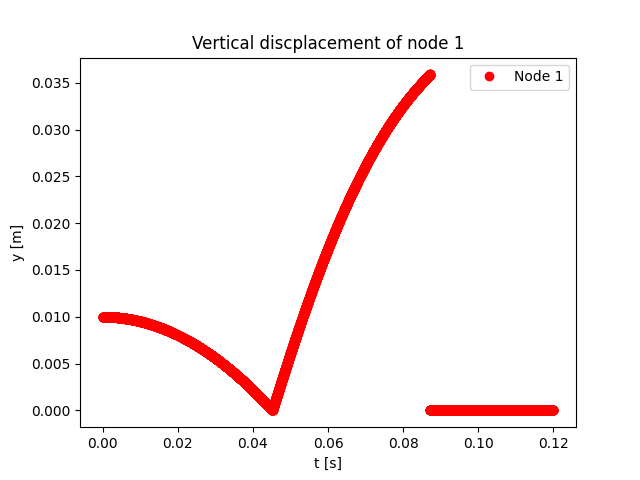
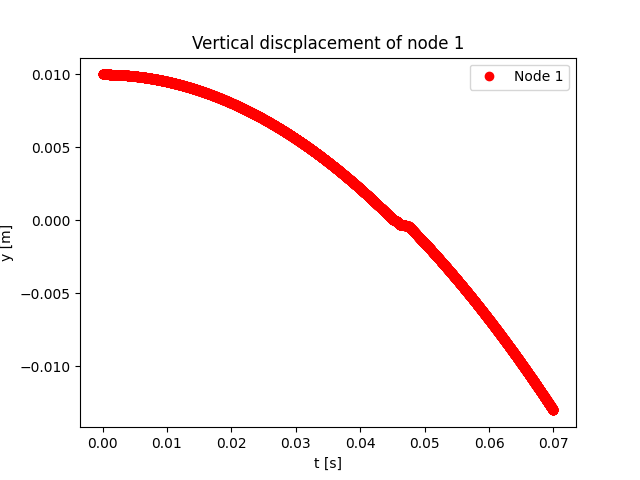
updates for BC application

diff --git a/ProjectCodes/FinalImplementation/BC_Application/BC_Bounce.py b/ProjectCodes/FinalImplementation/BC_Application/BC_Bounce.py
@@ -1,5 +1,6 @@
 import numpy as np
 import matplotlib.pyplot as plt
+import matplotlib.patches as patches
 from IPython.display import clear_output # Only for IPython
 
 # Helper Functions for MMM
@@ -30,6 +31,9 @@ def simloop(q_guess, q_old, u_old, dt, mass, EI, EA, deltaL, force, tol, mat, nv
     end_flag = 0
     close_d = 1e-5                # 1e-5
     close_off = 5e-6              # 5e-6
+
+    # Coordinates for reference reactangle in contact
+    xrec, yrec = [0.02, 0.02, 0.1], [-0.04, 0, 0]
     
     r_force = np.zeros(3*nv)
     s_mat = np.eye(3*nv)
@@ -44,7 +48,7 @@ def simloop(q_guess, q_old, u_old, dt, mass, EI, EA, deltaL, force, tol, mat, nv
 
       #s_mat = np.eye(3*nv)
       #z_vec = np.zeros(3*nv)
-      r_force, q, flag = MMMadj.MMM_cal(q0, q0, u, dt_def, mass, EI, EA, deltaL, force, tol, s_mat, z_vec, mat)
+      r_force, q, flag = MMMadj.MMM_cal(q0, q0, u, dt_def, mass, EI, EA, deltaL, force, tol, s_mat, z_vec, mat, free_ix)
       print("Node position: " + str(q))
       print("Reaction force: " + str(r_force))
       con_ind, free_ind, q_con, mat, flag_c, close_flag = MMMadj.test_col(q, r_force, close_d, 0)
@@ -60,7 +64,7 @@ def simloop(q_guess, q_old, u_old, dt, mass, EI, EA, deltaL, force, tol, mat, nv
           print("------------------------------------------------------ u = %f\n" % (u[1]))
           s_mat, z_vec = MMMadj.MMM_Szcalc(mat, con_ind, free_ind, q_con, q0, u, dt_c, mass, force)
 
-          r_force, q, flag = MMMadj.MMM_cal(q0, q0, u, dt_c, mass, EI, EA, deltaL, force, tol, s_mat, z_vec, mat)
+          r_force, q, flag = MMMadj.MMM_cal(q0, q0, u, dt_c, mass, EI, EA, deltaL, force, tol, s_mat, z_vec, mat, free_ix)
 
           u = (q - q0) / dt_c                     # update velocity
           q0 = q.copy()                         # update old position
@@ -72,7 +76,9 @@ def simloop(q_guess, q_old, u_old, dt, mass, EI, EA, deltaL, force, tol, mat, nv
           if flag_c == 1:
             s_mat, z_vec = MMMadj.MMM_Szcalc(mat, con_ind, free_ind, q_con, q0, u, dt_c, mass, force)
             print("Z vector: " + str(z_vec))
-            r_force, q, flag = MMMadj.MMM_cal(q0, q0, u, dt_def, mass, EI, EA, deltaL, force, tol, s_mat, z_vec, mat)
+            r_force, q, flag = MMMadj.MMM_cal(q0, q0, u, dt_def, mass, EI, EA, deltaL, force, tol, s_mat, z_vec, mat, free_ix)
+            
+            # End simulation if excessive low amplitude oscillations
             if timeStep - t_lastc < 300:
                 end_flag = 1
             t_lastc = timeStep
@@ -99,31 +105,34 @@ def simloop(q_guess, q_old, u_old, dt, mass, EI, EA, deltaL, force, tol, mat, nv
       all_u[timeStep] = u[1]                # Save the positions
 
       #Break if excessive low oscillations
-      if end_flag == 1:
-        for ii in range(int(len(q_old)/3)):
-          all_rfx[timeStep:-1][ii] = 0
-          all_rfy[timeStep:-1][ii] = 0
+      # if end_flag == 1:
+      #   print("terminated for oscillations")
+      #   for ii in range(int(len(q_old)/3)):
+      #     all_rfx[timeStep:-1][ii] = 0
+      #     all_rfy[timeStep:-1][ii] = 0
 
-        all_zvec[timeStep:-1] = 0
-        all_pos[timeStep:-1] = 0
-        all_u[timeStep:-1] = 0                # Save the positions
-        break
+      #   all_zvec[timeStep:-1] = 0
+      #   all_pos[timeStep:-1] = 0
+      #   all_u[timeStep:-1] = 0                # Save the positions
+      #   break
 
       # Plot the positions
       if timeStep%500 == 0:
         x1 = q[0::3]  # Selects every second element starting from index 0
-        print(x1)
+        #print(x1)
         x2 = q[1::3]  # Selects every second element starting from index 1
-        print(x2)
-        h1 = plt.figure(1)
+        #print(x2)
         plt.clf()  # Clear the current figure
         plt.plot(x1, x2, 'ko-')  # 'ko-' indicates black color with circle markers and solid lines
+        plt.plot(xrec, yrec)
         plt.title('time: ' + str(ctime))  # Format the title with the current time
         plt.xlim([-0.1, 1.1])
         plt.axis('equal')  # Set equal scaling
         plt.xlabel('x [m]')
         plt.ylabel('y [m]')
-        plt.show()
+        plot1_name = 'GripperGeom' + str(round(ctime, 3)) + '.png' 
+        plt.savefig('FinalImplementation/BC_Application/BCApplicationPlots/BC_GeomPlots/' + str(plot1_name))
+        # plt.show()
 
       ctime += dt # Update the current time
     
@@ -213,7 +222,7 @@ if __name__ == '__main__':
 
     #-----------------------------------------------------------
     # Inputs for using more than one node
-    nv = 3
+    nv = 26
     ne = nv - 1
     deltaL = RodLength / (nv - 1)            # Discrete length
     ndof = 3 * nv
@@ -222,6 +231,7 @@ if __name__ == '__main__':
     fixed_index = np.array([0, 1, 2])
     # Get the difference of two sets using np.setdiff1d
     free_ix = np.setdiff1d(all_DOFs, fixed_index)
+    free_ix = fixed_index
 
     nodes = np.zeros((nv, 2))
     for c in range(nv):
@@ -242,7 +252,7 @@ if __name__ == '__main__':
     maximum_iter = 100
     #totalTime = 0.453
     #totalTime = 0.5
-    totalTime = 0.12
+    totalTime = 0.07
     Nsteps = round(totalTime / dt)
     tol_dq = 1e-6 # Small length value
 

diff --git a/ProjectCodes/FinalImplementation/BC_Application/MMM_BC.py b/ProjectCodes/FinalImplementation/BC_Application/MMM_BC.py
@@ -125,8 +125,9 @@ def test_col(q_test, r_force, close_d, close_off):
             proj_vec = ( np.dot(np.array([0,1,0]), unit_r) ) * np.array([0,1,0])
 
         #print(proj_vec[1])
-        if q_test[3*ii + 1] < 0:
-            #q_con[3*ii + 1] = 0.1*(1-ii)
+        #print(q_test[3*ii])
+        if q_test[3*ii + 1] < 0 and q_test[3*ii] > 0.012:
+            
             q_con[3*ii + 1] = 0
             mat[ii] = np.array([[0,1,0],[0,0,0]])
             #print(mat)
@@ -166,7 +167,7 @@ def test_col(q_test, r_force, close_d, close_off):
 
 
 
-def MMM_cal(q_guess, q_old, u_old, dt, mass, EI, EA, deltaL, force, tol, S_mat, z_vec, mat):
+def MMM_cal(q_guess, q_old, u_old, dt, mass, EI, EA, deltaL, force, tol, S_mat, z_vec, mat, free_ix):
     # Calculates the placement of the node assuming no collision
     # q_con gives enforced displacement values at nodes from collision
 
@@ -182,6 +183,12 @@ def MMM_cal(q_guess, q_old, u_old, dt, mass, EI, EA, deltaL, force, tol, S_mat, 
         # print(np.linalg.norm(f_n))
         Fb, Jb = getFbP2(q_new, EI, deltaL)
         Fs, Js = getFsP2(q_new, EA, deltaL)
+
+        Fb[free_ix] = 0
+        Fs[free_ix] = 0
+        Jb[np.ix_(free_ix, free_ix)] = 0
+        Js[np.ix_(free_ix, free_ix)] = 0
+
         #print(Fb)
         #print(Fs)
         # print(Jb)
